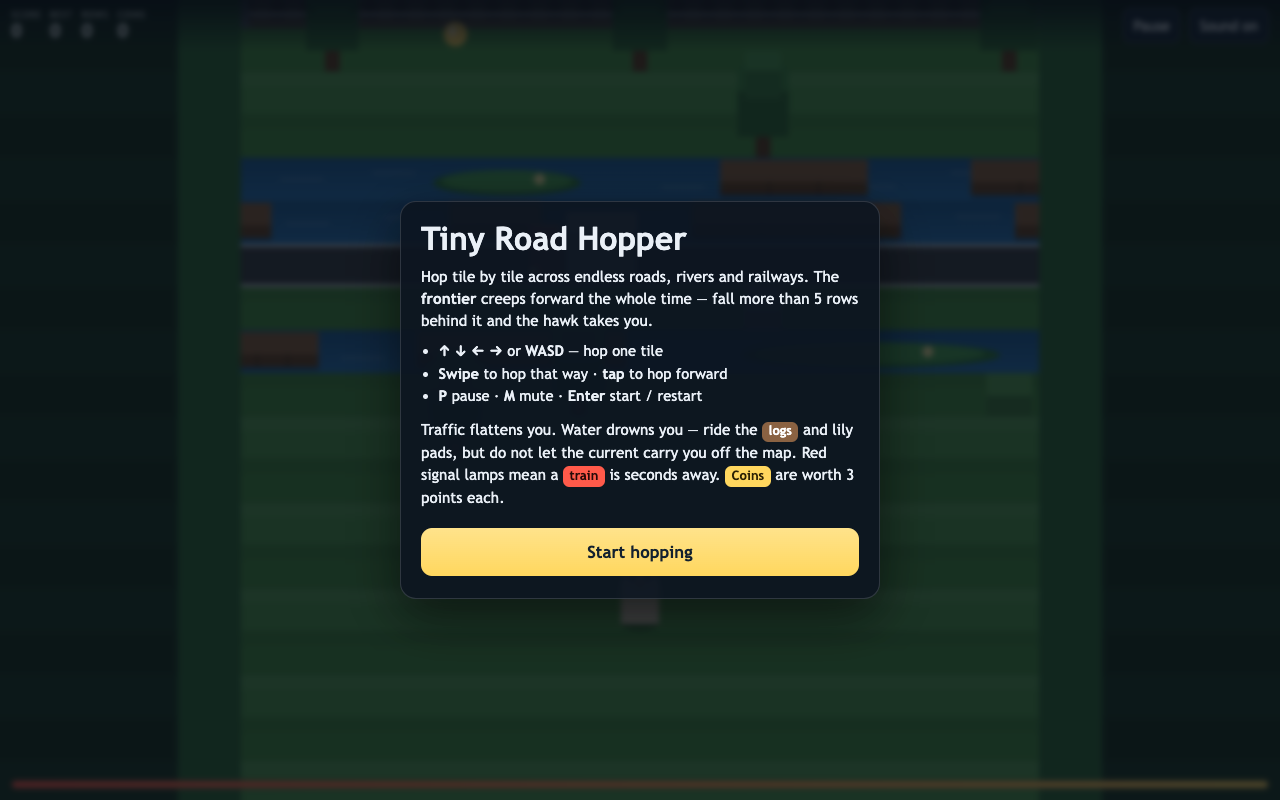
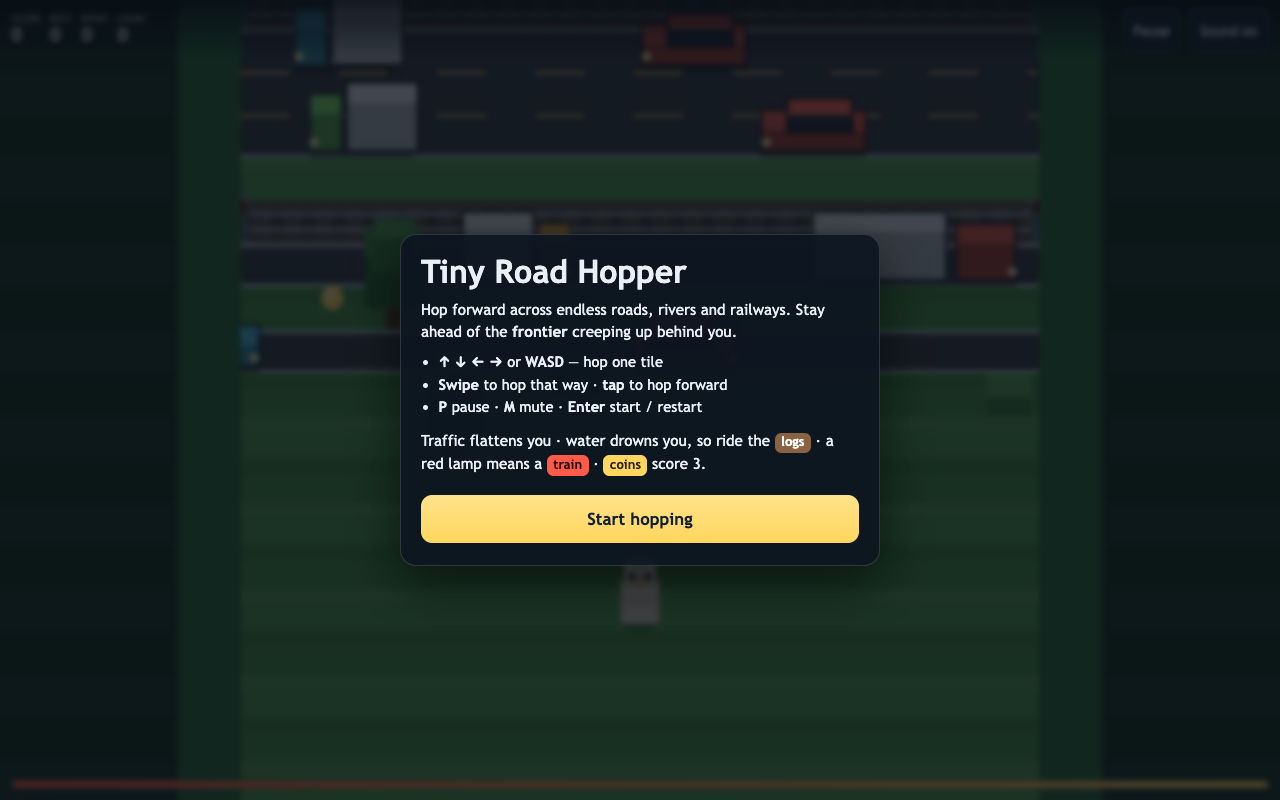
Generate themed row segments and name a short distance goal
Rows now generate inside themed segments - meadow, highway, riverlands,
crossing - that tilt the kind weights for 4-9 rows at a time, so a run reads as
varied stretches instead of uniform noise. Themes only bias the mix: every
structural rule still runs afterwards.

Reachability is enforced, not assumed. Runs of one hazard kind are capped
(river 3, road 4), including through the band-continuation branch, which a new
test caught bypassing the cap. Tests walk 400 rows across five seeds and assert
the caps, that every river row keeps a platform, and that every row leaves at
least one enterable column.

A short distance goal every 10 rows rides in the Rows group's label as
"Next N". The value stays a plain number because the smoke suite reads it and
is right to; the HUD gains no element, so the five-viewport layout is unchanged.
Reaching a goal does not change the score - no streak, reward, ad or payment.

Tests: 39/39 unit (3 new), smoke 62/62, tsc and build clean. HUD verified by
cropping the 360x640 capture, the narrowest viewport: no overflow.

diff --git a/src/game/logic.ts b/src/game/logic.ts
@@ -1,11 +1,11 @@
 /** The whole simulation: pure, deterministic, DOM-free and clock-free, so the
  *  unit tests drive it exactly like the browser does. */
 import {
-  AHEAD_ROWS, BEHIND_LIMIT, COIN_BONUS, CREEP_BASE, CREEP_MAX, CREEP_PER_ROW,
+  AHEAD_ROWS, BEHIND_LIMIT, COIN_BONUS, GOAL_STEP, CREEP_BASE, CREEP_MAX, CREEP_PER_ROW,
   HALF_COLS, HOP_TIME, KEEP_BEHIND, LANE_PERIOD, PLAYER_W, SAFE_START_ROWS,
   TRAIN_IDLE_MAX, TRAIN_IDLE_MIN, TRAIN_SPEED, TRAIN_W, TRAIN_WARN,
 } from './config';
-import type { Action, GameEvent, GameState, Mover, Row, RowKind } from './types';
+import type { Action, GameEvent, GameState, Mover, Row, RowKind, Theme } from './types';
 
 /* ------------------------------------------------------------------ random */
 
@@ -48,15 +48,55 @@ function chooseKind(s: GameState, prev: Row | undefined, index: number): RowKind
   if (prevKind === 'river' && nextRandom(s) < 0.45) return 'grass';
   if (prevKind === 'rail') return 'grass';
   // Continue a road or river band so traffic reads as multi-lane.
-  if ((prevKind === 'road' || prevKind === 'river') && nextRandom(s) < 0.5 + d * 0.18) return prevKind;
-  const r = nextRandom(s);
-  const grassShare = 0.42 - d * 0.16;
-  const roadShare = grassShare + 0.34 + d * 0.04;
-  const riverShare = roadShare + 0.16 + d * 0.05;
-  if (r < grassShare) return 'grass';
-  if (r < roadShare) return 'road';
-  if (r < riverShare) return 'river';
-  return 'rail';
+  if ((prevKind === 'road' || prevKind === 'river') && nextRandom(s) < 0.5 + d * 0.18) {
+    // Band continuation must still respect the run cap, or a long themed
+    // stretch can chain past it through this branch alone.
+    const capped = MAX_RUN[prevKind];
+    if (capped === undefined || runLength(s, prevKind) < capped) return prevKind;
+    return 'grass';
+  }
+  // Theme weights, nudged by difficulty away from plain grass.
+  const w = THEMES[s.theme].w;
+  const grassShare = Math.max(0.12, w[0] - d * 0.16);
+  const roadShare = grassShare + w[1] + d * 0.04;
+  const riverShare = roadShare + w[2] + d * 0.05;
+  const total = riverShare + w[3];
+  const r = nextRandom(s) * total;
+  const kind: RowKind = r < grassShare ? 'grass' : r < roadShare ? 'road' : r < riverShare ? 'river' : 'rail';
+  // Never let a theme chain one hazard past its cap: fall back to grass, which
+  // is always crossable.
+  const cap = MAX_RUN[kind];
+  if (cap !== undefined && runLength(s, kind) >= cap) return 'grass';
+  return kind;
+}
+
+/** Relative weights for grass / road / river / rail inside a theme. A theme
+ *  only tilts the mix; the structural rules after it still apply, so a route
+ *  always exists. */
+const THEMES: Record<Theme, { w: [number, number, number, number]; rows: [number, number] }> = {
+  meadow: { w: [0.62, 0.22, 0.10, 0.06], rows: [4, 7] },
+  highway: { w: [0.24, 0.58, 0.08, 0.10], rows: [5, 8] },
+  riverlands: { w: [0.30, 0.14, 0.48, 0.08], rows: [4, 7] },
+  crossing: { w: [0.34, 0.30, 0.16, 0.20], rows: [5, 9] },
+};
+const THEME_IDS: readonly Theme[] = ['meadow', 'highway', 'riverlands', 'crossing'];
+
+/** Longest run of one hazard kind a theme is allowed to produce. Without this a
+ *  river-heavy stretch could chain far enough that a slow platform row leaves
+ *  no reachable landing before the frontier arrives. */
+const MAX_RUN: Partial<Record<RowKind, number>> = { river: 3, road: 4 };
+
+function runLength(s: GameState, kind: RowKind): number {
+  let n = 0;
+  for (let i = s.rows.length - 1; i >= 0 && s.rows[i]!.kind === kind; i--) n++;
+  return n;
+}
+
+/** Move to the next themed segment, avoiding an immediate repeat. */
+function nextTheme(s: GameState): Theme {
+  let t = pick(s, THEME_IDS);
+  if (t === s.theme) t = THEME_IDS[(THEME_IDS.indexOf(t) + 1 + randInt(s, 0, 2)) % THEME_IDS.length]!;
+  return t;
 }
 
 function fillStream(s: GameState, movers: Mover[], widths: readonly number[], kinds: readonly Mover['kind'][], gapMin: number, gapMax: number): void {
@@ -135,6 +175,12 @@ export function ensureRows(s: GameState): void {
   const target = Math.ceil(Math.max(s.frontier, s.player.row) + AHEAD_ROWS);
   while (s.firstRow + s.rows.length <= target) {
     const index = s.firstRow + s.rows.length;
+    // The opening rows stay in the starting meadow so the first hops are calm.
+    if (index > SAFE_START_ROWS && --s.themeLeft <= 0) {
+      s.theme = nextTheme(s);
+      const span = THEMES[s.theme].rows;
+      s.themeLeft = randInt(s, span[0], span[1]);
+    }
     s.rows.push(makeRow(s, index, s.rows[s.rows.length - 1]));
   }
   const cut = Math.floor(Math.min(s.frontier, s.player.row)) - KEEP_BEHIND - s.firstRow;
@@ -154,6 +200,7 @@ export function createState(seed: number): GameState {
     // screen below the hopper has no rows to draw and shows through as a chasm.
     rows: [], firstRow: -KEEP_BEHIND, frontier: -BEHIND_LIMIT, maxRow: 0,
     coins: 0, score: 0, hops: 0, time: 0, cause: null, queued: null,
+    theme: 'meadow', themeLeft: 6, goal: GOAL_STEP, goalsMet: 0,
     rng: (seed | 0) || 1,
   };
   ensureRows(s);
@@ -316,6 +363,13 @@ export function step(s: GameState, dt: number): GameEvent[] {
   if (p.row > s.maxRow) {
     s.maxRow = p.row;
     if (s.maxRow % 25 === 0) out.push({ type: 'milestone', row: s.maxRow });
+    // Short distance goals: reaching one just names the next. Missing one costs
+    // nothing, so there is no streak to protect.
+    if (s.maxRow >= s.goal) {
+      s.goalsMet++;
+      s.goal = (Math.floor(s.maxRow / GOAL_STEP) + 1) * GOAL_STEP;
+      out.push({ type: 'goal', row: s.maxRow, total: s.goalsMet });
+    }
   }
   s.score = s.maxRow + s.coins * COIN_BONUS;
 

diff --git a/tests/logic.test.ts b/tests/logic.test.ts
@@ -4,7 +4,7 @@ import {
   rowAt, slack, startRun, step, wrap,
 } from '../src/game/logic';
 import {
-  BEHIND_LIMIT, COIN_BONUS, HALF_COLS, HOP_TIME, LANE_PERIOD, PLAYER_W,
+  BEHIND_LIMIT, COIN_BONUS, GOAL_STEP, HALF_COLS, HOP_TIME, LANE_PERIOD, PLAYER_W,
   SAFE_START_ROWS, TRAIN_W, TRAIN_WARN,
 } from '../src/game/config';
 import type { Action, GameEvent, GameState, Row } from '../src/game/types';
@@ -43,6 +43,67 @@ function hop(s: GameState, a: Action): GameEvent[] {
   out.push(...settle(s));
   return out;
 }
+
+describe('themed segments and distance goals', () => {
+  it('keeps every generated row reachable across a long run', () => {
+    // Walk the generator far past the themed-segment length and assert the
+    // structural guarantees that make a route exist at all.
+    for (const seed of [1, 7, 42, 1015568748, 999]) {
+      const s = fresh(seed);
+      s.player.row = 0;
+      for (let target = 0; target < 400; target += 10) {
+        s.frontier = target;
+        s.player.row = target;
+        ensureRows(s);
+      }
+      let riverRun = 0;
+      let roadRun = 0;
+      for (const r of s.rows) {
+        riverRun = r.kind === 'river' ? riverRun + 1 : 0;
+        roadRun = r.kind === 'road' ? roadRun + 1 : 0;
+        expect(riverRun, `seed ${seed} row ${r.index} river run`).toBeLessThanOrEqual(3);
+        expect(roadRun, `seed ${seed} row ${r.index} road run`).toBeLessThanOrEqual(4);
+        // A river row with no platform is a wall, not a puzzle.
+        if (r.kind === 'river') expect(r.movers.length, `seed ${seed} row ${r.index}`).toBeGreaterThan(0);
+        // At least one column of every row must be enterable.
+        const free = [];
+        for (let c = -HALF_COLS; c <= HALF_COLS; c++) if (!r.blockers.some((b) => b.col === c)) free.push(c);
+        expect(free.length, `seed ${seed} row ${r.index} has no free column`).toBeGreaterThan(0);
+      }
+    }
+  });
+
+  it('visits more than one theme over a long run', () => {
+    const s = fresh(42);
+    const seen = new Set([s.theme]);
+    for (let target = 0; target < 300; target += 10) {
+      s.frontier = target;
+      s.player.row = target;
+      ensureRows(s);
+      seen.add(s.theme);
+    }
+    expect(seen.size).toBeGreaterThan(1);
+  });
+
+  it('names the next distance goal and never goes backwards', () => {
+    const s = fresh();
+    paveAll(s);
+    expect(s.goal).toBe(GOAL_STEP);
+    let last = s.goal;
+    const events: GameEvent[] = [];
+    for (let i = 0; i < GOAL_STEP + 2; i++) {
+      events.push(...hop(s, 'up'));
+      paveAll(s);
+      expect(s.goal).toBeGreaterThanOrEqual(last);
+      last = s.goal;
+    }
+    const met = events.filter((e) => e.type === 'goal');
+    expect(met.length).toBeGreaterThan(0);
+    expect(s.goal).toBeGreaterThan(s.maxRow);
+    // Goals are a marker, not a reward: reaching one must not change the score.
+    expect(s.score).toBe(s.maxRow + s.coins * COIN_BONUS);
+  });
+});
 
 describe('stream maths', () => {
   it('wraps positions into a single period centred on zero', () => {

diff --git a/src/game/types.ts b/src/game/types.ts
@@ -1,4 +1,7 @@
 export type RowKind = 'grass' | 'road' | 'river' | 'rail';
+/** A themed stretch of rows. Purely a generation bias: every theme still goes
+ *  through the same reachability rules, so no theme can seal the field. */
+export type Theme = 'meadow' | 'highway' | 'riverlands' | 'crossing';
 export type Action = 'up' | 'down' | 'left' | 'right';
 export type Phase = 'menu' | 'playing' | 'paused' | 'over';
 export type TrainState = 'idle' | 'warn' | 'passing';
@@ -75,6 +78,13 @@ export interface GameState {
   time: number;
   cause: string | null;
   queued: Action | null;
+  /** Current themed segment and how many more rows it covers. */
+  theme: Theme;
+  themeLeft: number;
+  /** Next short distance goal, in rows. Optional flavour: missing it costs
+   *  nothing, so there is no streak to protect and nothing to buy. */
+  goal: number;
+  goalsMet: number;
   rng: number;
 }
 
@@ -83,6 +93,8 @@ export type GameEvent =
   | { type: 'bump' }
   | { type: 'coin'; total: number }
   | { type: 'milestone'; row: number }
+  | { type: 'goal'; row: number; total: number }
+  | { type: 'theme'; theme: Theme }
   | { type: 'train-warn' }
   | { type: 'board'; kind: 'log' | 'pad' }
   | { type: 'over'; cause: string };

diff --git a/src/game/game.ts b/src/game/game.ts
@@ -21,6 +21,7 @@ interface Dom {
   score: HTMLElement;
   best: HTMLElement;
   rows: HTMLElement;
+  rowsLabel: HTMLElement;
   coins: HTMLElement;
   danger: HTMLElement;
   callout: HTMLElement;
@@ -181,6 +182,12 @@ export class Game {
         case 'board':
           this.sfx.board();
           break;
+        case 'goal':
+          this.sfx.coin();
+          this.flash(`Goal ${e.row}!`);
+          break;
+        case 'theme':
+          break;
         case 'milestone':
           this.sfx.milestone();
           this.flash(`${e.row} rows!`);
@@ -235,6 +242,7 @@ export class Game {
     this.dom.score.textContent = String(Math.floor(s.score));
     this.dom.best.textContent = String(Math.max(this.bestScore, Math.floor(s.score)));
     this.dom.rows.textContent = String(s.maxRow);
+    this.dom.rowsLabel.textContent = s.phase === 'playing' ? `Next ${s.goal}` : 'Rows';
     this.dom.coins.textContent = String(s.coins);
     const left = slack(s);
     const pct = Math.max(0, Math.min(1, left / BEHIND_LIMIT));

diff --git a/index.html b/index.html
@@ -13,7 +13,7 @@
     <header id="hud">
       <div class="hud-group"><span class="label">Score</span><span id="score" class="value">0</span></div>
       <div class="hud-group"><span class="label">Best</span><span id="best" class="value">0</span></div>
-      <div class="hud-group"><span class="label">Rows</span><span id="rows" class="value">0</span></div>
+      <div class="hud-group"><span class="label" id="rows-label">Rows</span><span id="rows" class="value">0</span></div>
       <div class="hud-group"><span class="label">Coins</span><span id="coins" class="value">0</span></div>
       <div class="hud-spacer"></div>
       <button id="pause-btn" type="button">Pause</button>

diff --git a/src/game/config.ts b/src/game/config.ts
@@ -30,3 +30,7 @@ export const TRAIN_IDLE_MIN = 1.6;
 export const TRAIN_IDLE_MAX = 4.2;
 
 export const COIN_BONUS = 3;
+
+/** Spacing of the short distance goals, in rows. Purely a marker of progress:
+ *  there is no reward to lose and nothing to buy. */
+export const GOAL_STEP = 10;

diff --git a/src/main.ts b/src/main.ts
@@ -16,6 +16,7 @@ const game = new Game({
   score: el('score'),
   best: el('best'),
   rows: el('rows'),
+  rowsLabel: el('rows-label'),
   coins: el('coins'),
   danger: el('danger'),
   callout: el('callout'),

diff --git a/README.md b/README.md
@@ -230,6 +230,12 @@ What changed:
   cost responsiveness without the fairness.)
 - **Destination preview.** The landing cell is marked while a hop is in flight,
   with a dashed marker for a buffered press behind it.
+- **Themed row segments and short goals.** Rows generate in themed segments
+  (meadow, highway, riverlands, crossing) that tilt the kind weights only; the
+  existing structural rules still run, and runs of one hazard kind are capped
+  (river 3, road 4) so no theme can chain past a crossable stretch. A short
+  distance goal every 10 rows shows in the HUD as `Next N`; reaching one names
+  the next and does not change the score, so there is nothing to protect.
 - **Vehicle contrast.** The warm body hues sit on `#3a3f47` asphalt below a 3:1
   ratio, so vehicles now carry a dark rim. It is stroked around each face the
   sprite actually draws rather than around a bounding box - a car is two boxes
